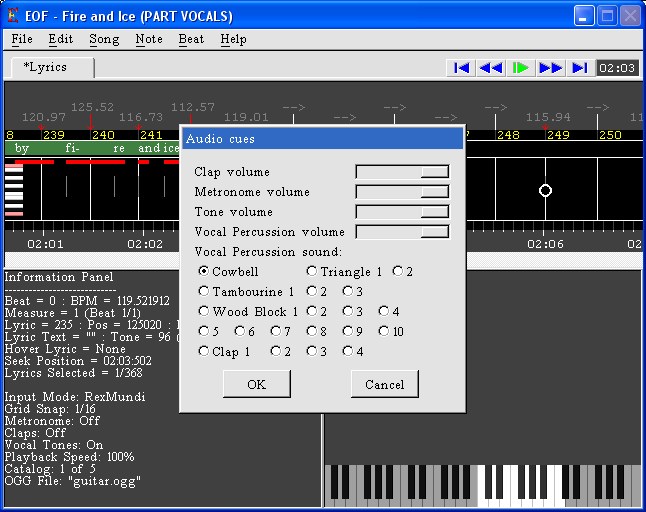
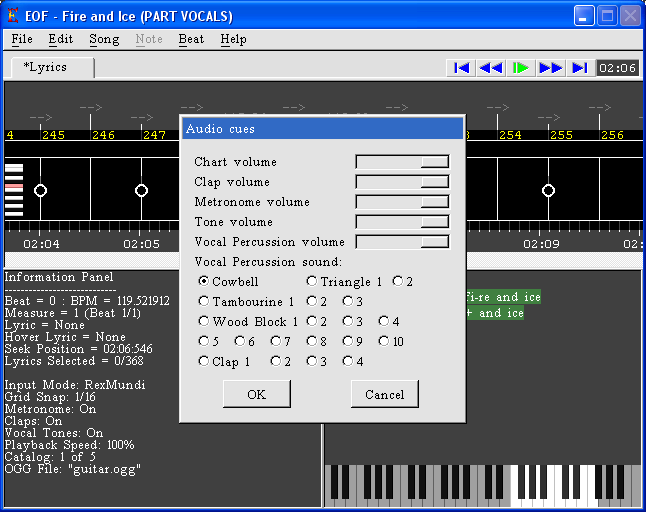
Adds a chart volume slider and updates the documentation.

diff --git a/bin/manual/functions.htm b/bin/manual/functions.htm
@@ -124,7 +124,7 @@ EOF stores all these settings in the ".eof" project file and exports them to "so
 <h1><a name="testinfof">Test In FOF</a></h1>
 Launch FOF with the current song, track, and difficulty for testing. This feature only works if you are using an RF-based mod (ie. Alarian Mod or FoFiX) and have correctly linked EOF to it (see <a href=functions.htm#linktofof>File->Link to FOF</a>).  As of this release, it has been confirmed through testing and documentation that "Test in FoF" should work for Frets on Fire releases from MFH Alarian Mod 2.900 through FoFiX 3.100.<br>
 <h1><a name="audiocues">Audio cues</a></h1>
-Opens a dialog window allowing you to change the volume for any of EOF's audio cues:  Clap, metronome, vocal tone and vocal percussion.  This will affect the volume of the cue when it is sounded during playback or when the chart is stopped (such as when clicking on a lyric or vocal percussion note).  This dialog window also allows you to select the sound that will be used for a vocal percussion note.  See <a href="../vocaltutorial/index.htm#percussion">Percussion sections</a> in the vocal tutorial for details.<br>
+Opens a dialog window allowing you to change the volume for the chart audio and any of EOF's audio cues:  Clap, metronome, vocal tone and vocal percussion.  This will affect the volume of the cue when it is sounded during playback or when the chart is stopped (such as when clicking on a lyric or vocal percussion note).  This dialog window also allows you to select the sound that will be used for a vocal percussion note.  See <a href="../vocaltutorial/index.htm#percussion">Percussion sections</a> in the vocal tutorial for details.<br>
 <h1><a name="waveform">Waveform graph</a></h1>
 Provides the ability to show, hide and configure a waveform graph for the currently active OGG file.  To generate the graph, use the "Show" item in this menu or simply press the F5 key.  After a few seconds, the graph will be displayed as per the settings in the "Configure" dialog menu.  In the "Configure" menu item, you can specify whether the left audio channel, the right audio channel or both audio channels will be graphed.  You can also specify whether the graph will be scaled to fit within the fretboard area or the entire editor window (the area above the scroll bar and the below the playback control buttons).  Once the waveform graph has been initially generated, you can show/hide it with the F5 key, even during chart playback.  If you load another OGG file (see <a href="functions.htm#loadogg">File->Load OGG</a>), the waveform graph will not be recreated until it is hidden and shown again.  This will allow you to generate a graph for a drum track, for example, then load another audio file.  If you load or import a chart, any existing waveform graph will be discarded and will need to be created again by showing the graph.
 </blockquote>

diff --git a/src/menu/song.c b/src/menu/song.c
@@ -1,4 +1,5 @@
 #include <allegro.h>
+#include <math.h>	//For sqrt()
 #include "../agup/agup.h"
 #include "../main.h"
 #include "../dialog.h"
@@ -1391,50 +1392,56 @@ int eof_menu_song_waveform(void)
 	return 0;	//Return success
 }
 
+int eof_cue_volume_1 = 100;
 DIALOG eof_audio_cues_dialog[] =
 {
 /*	(proc)					(x)	(y)				(w)	(h)		(fg)	(bg)	(key)	(flags)	(d1)	(d2)	(dp)						(dp2)	(dp3) */
-	{ d_agup_window_proc,	0,	48,				288,290,	2,		23,		0,		0,		0,		0,		"Audio cues",				NULL,	NULL },
-	{ d_agup_text_proc,		16,	88,				64,	8,		2,		23,		0,		0,		0,		0,		"Clap volume",				NULL,	NULL },
+	{ d_agup_window_proc,	0,	48,				288,310,	2,		23,		0,		0,		0,		0,		"Audio cues",				NULL,	NULL },
+	{ d_agup_text_proc,		16,	88,				64,	8,		2,		23,		0,		0,		0,		0,		"Chart volume",				NULL,	NULL },
 	{ d_agup_slider_proc,	176,88,				96,	16,		2,		23,		0,		0,		100,	0,		NULL,						NULL,	NULL },
-	{ d_agup_text_proc,		16, 108,			64,	8,		2,		23,		0,		0,		0,		0,		"Metronome volume",			NULL,	NULL },
+	{ d_agup_text_proc,		16,	108,			64,	8,		2,		23,		0,		0,		0,		0,		"Clap volume",				eof_set_cue_volume,	&eof_cue_volume_1 },
 	{ d_agup_slider_proc,	176,108,			96,	16,		2,		23,		0,		0,		100,	0,		NULL,						NULL,	NULL },
-	{ d_agup_text_proc,		16, 128,			64,	8,		2,		23,		0,		0,		0,		0,		"Tone volume",				NULL,	NULL },
+	{ d_agup_text_proc,		16, 128,			64,	8,		2,		23,		0,		0,		0,		0,		"Metronome volume",			NULL,	NULL },
 	{ d_agup_slider_proc,	176,128,			96,	16,		2,		23,		0,		0,		100,	0,		NULL,						NULL,	NULL },
-	{ d_agup_text_proc,		16, 148,			64,	8,		2,		23,		0,		0,		0,		0,		"Vocal Percussion volume",	NULL,	NULL },
+	{ d_agup_text_proc,		16, 148,			64,	8,		2,		23,		0,		0,		0,		0,		"Tone volume",				NULL,	NULL },
 	{ d_agup_slider_proc,	176,148,			96,	16,		2,		23,		0,		0,		100,	0,		NULL,						NULL,	NULL },
-	{ d_agup_text_proc,		16, 168,			64,	8,		2,		23,		0,		0,		0,		0,		"Vocal Percussion sound:",	NULL,	NULL },
-	{ d_agup_radio_proc,	16,188,				68,	15,		2,		23,		0,		0,		0,		0,		"Cowbell",					NULL,	NULL },
-	{ d_agup_radio_proc,	124,188,			84,	15,		2,		23,		0,		0,		0,		0,		"Triangle 1",				NULL,	NULL },
-	{ d_agup_radio_proc,	210,188,			30,	15,		2,		23,		0,		0,		0,		0,		"2",						NULL,	NULL },
-	{ d_agup_radio_proc,	16,208,				102,15,		2,		23,		0,		0,		0,		0,		"Tambourine 1",				NULL,	NULL },
-	{ d_agup_radio_proc,	124,208,			30,	15,		2,		23,		0,		0,		0,		0,		"2",						NULL,	NULL },
-	{ d_agup_radio_proc,	160,208,			30,	15,		2,		23,		0,		0,		0,		0,		"3",						NULL,	NULL },
-	{ d_agup_radio_proc,	16,228,				110,15,		2,		23,		0,		0,		0,		0,		"Wood Block 1",				NULL,	NULL },
+	{ d_agup_text_proc,		16, 168,			64,	8,		2,		23,		0,		0,		0,		0,		"Vocal Percussion volume",	NULL,	NULL },
+	{ d_agup_slider_proc,	176,168,			96,	16,		2,		23,		0,		0,		100,	0,		NULL,						NULL,	NULL },
+	{ d_agup_text_proc,		16, 188,			64,	8,		2,		23,		0,		0,		0,		0,		"Vocal Percussion sound:",	NULL,	NULL },
+	{ d_agup_radio_proc,	16,208,				68,	15,		2,		23,		0,		0,		0,		0,		"Cowbell",					NULL,	NULL },
+	{ d_agup_radio_proc,	124,208,			84,	15,		2,		23,		0,		0,		0,		0,		"Triangle 1",				NULL,	NULL },
+	{ d_agup_radio_proc,	210,208,			30,	15,		2,		23,		0,		0,		0,		0,		"2",						NULL,	NULL },
+	{ d_agup_radio_proc,	16,228,				102,15,		2,		23,		0,		0,		0,		0,		"Tambourine 1",				NULL,	NULL },
 	{ d_agup_radio_proc,	124,228,			30,	15,		2,		23,		0,		0,		0,		0,		"2",						NULL,	NULL },
 	{ d_agup_radio_proc,	160,228,			30,	15,		2,		23,		0,		0,		0,		0,		"3",						NULL,	NULL },
-	{ d_agup_radio_proc,	196,228,			30,	15,		2,		23,		0,		0,		0,		0,		"4",						NULL,	NULL },
-	{ d_agup_radio_proc,	16,248,				30,	15,		2,		23,		0,		0,		0,		0,		"5",						NULL,	NULL },
-	{ d_agup_radio_proc,	52,248,				30,	15,		2,		23,		0,		0,		0,		0,		"6",						NULL,	NULL },
-	{ d_agup_radio_proc,	88,248,				30,	15,		2,		23,		0,		0,		0,		0,		"7",						NULL,	NULL },
-	{ d_agup_radio_proc,	124,248,			30,	15,		2,		23,		0,		0,		0,		0,		"8",						NULL,	NULL },
-	{ d_agup_radio_proc,	160,248,			30,	15,		2,		23,		0,		0,		0,		0,		"9",						NULL,	NULL },
-	{ d_agup_radio_proc,	196,248,			40,	15,		2,		23,		0,		0,		0,		0,		"10",						NULL,	NULL },
-	{ d_agup_radio_proc,	16,268,				68,15,		2,		23,		0,		0,		0,		0,		"Clap 1",					NULL,	NULL },
-	{ d_agup_radio_proc,	88,268,				30,15,		2,		23,		0,		0,		0,		0,		"2",						NULL,	NULL },
-	{ d_agup_radio_proc,	124,268,			30,15,		2,		23,		0,		0,		0,		0,		"3",						NULL,	NULL },
-	{ d_agup_radio_proc,	160,268,			30,15,		2,		23,		0,		0,		0,		0,		"4",						NULL,	NULL },
-	{ d_agup_button_proc,	44,294,				68,	28,		2,		23,		'\r',	D_EXIT,	0,		0,		"OK",						NULL,	NULL },
-	{ d_agup_button_proc,	172,294,			68,	28,		2,		23,		0,		D_EXIT,	0,		0,		"Cancel",					NULL,	NULL },
+	{ d_agup_radio_proc,	16,248,				110,15,		2,		23,		0,		0,		0,		0,		"Wood Block 1",				NULL,	NULL },
+	{ d_agup_radio_proc,	124,248,			30,	15,		2,		23,		0,		0,		0,		0,		"2",						NULL,	NULL },
+	{ d_agup_radio_proc,	160,248,			30,	15,		2,		23,		0,		0,		0,		0,		"3",						NULL,	NULL },
+	{ d_agup_radio_proc,	196,248,			30,	15,		2,		23,		0,		0,		0,		0,		"4",						NULL,	NULL },
+	{ d_agup_radio_proc,	16,268,				30,	15,		2,		23,		0,		0,		0,		0,		"5",						NULL,	NULL },
+	{ d_agup_radio_proc,	52,268,				30,	15,		2,		23,		0,		0,		0,		0,		"6",						NULL,	NULL },
+	{ d_agup_radio_proc,	88,268,				30,	15,		2,		23,		0,		0,		0,		0,		"7",						NULL,	NULL },
+	{ d_agup_radio_proc,	124,268,			30,	15,		2,		23,		0,		0,		0,		0,		"8",						NULL,	NULL },
+	{ d_agup_radio_proc,	160,268,			30,	15,		2,		23,		0,		0,		0,		0,		"9",						NULL,	NULL },
+	{ d_agup_radio_proc,	196,268,			40,	15,		2,		23,		0,		0,		0,		0,		"10",						NULL,	NULL },
+	{ d_agup_radio_proc,	16,288,				68,15,		2,		23,		0,		0,		0,		0,		"Clap 1",					NULL,	NULL },
+	{ d_agup_radio_proc,	88,288,				30,15,		2,		23,		0,		0,		0,		0,		"2",						NULL,	NULL },
+	{ d_agup_radio_proc,	124,288,			30,15,		2,		23,		0,		0,		0,		0,		"3",						NULL,	NULL },
+	{ d_agup_radio_proc,	160,288,			30,15,		2,		23,		0,		0,		0,		0,		"4",						NULL,	NULL },
+	{ d_agup_button_proc,	44,314,				68,	28,		2,		23,		'\r',	D_EXIT,	0,		0,		"OK",						NULL,	NULL },
+	{ d_agup_button_proc,	172,314,			68,	28,		2,		23,		0,		D_EXIT,	0,		0,		"Cancel",					NULL,	NULL },
 	{ NULL,					0,	0,				0,	0,		0,		0,		0,		0,		0,		0,		NULL,						NULL,	NULL }
 };
 
 int eof_set_cue_volume(void *dp3, int d2)
 {
 	//Validate input
+	if(dp3 == NULL)
+		return 1;
 	if((d2 < 0) || (d2 > 100))
 		return 1;
 
+	*((int *)dp3) = d2;	//Store the adjusted volume into the passed variable
 	return 0;
 }
 
@@ -1447,123 +1454,126 @@ int eof_menu_audio_cues(void)
 	eof_render();
 	eof_color_dialog(eof_audio_cues_dialog, gui_fg_color, gui_bg_color);
 	centre_dialog(eof_audio_cues_dialog);
-	eof_audio_cues_dialog[2].d2 = eof_clap_volume;
-	eof_audio_cues_dialog[4].d2 = eof_tick_volume;
-	eof_audio_cues_dialog[6].d2 = eof_tone_volume;
-	eof_audio_cues_dialog[8].d2 = eof_percussion_volume;
+	eof_audio_cues_dialog[2].d2 = eof_chart_volume;
+	eof_audio_cues_dialog[4].d2 = eof_clap_volume;
+	eof_audio_cues_dialog[6].d2 = eof_tick_volume;
+	eof_audio_cues_dialog[8].d2 = eof_tone_volume;
+	eof_audio_cues_dialog[10].d2 = eof_percussion_volume;
 
-	for(x=10;x<=29;x++)
+	for(x=12;x<=31;x++)
 	{	//Deselect all vocal percussion radio buttons
 		eof_audio_cues_dialog[x].flags = 0;
 	}
 	eof_audio_cues_dialog[eof_selected_percussion_cue].flags = D_SELECTED;	//Activate the radio button for the current vocal percussion cue
 
-	if(eof_popup_dialog(eof_audio_cues_dialog, 0) == 30)		//User clicked OK
+	if(eof_popup_dialog(eof_audio_cues_dialog, 0) == 32)		//User clicked OK
 	{
-		eof_clap_volume = eof_audio_cues_dialog[2].d2;			//Store the volume set by the clap cue volume slider
-		eof_tick_volume = eof_audio_cues_dialog[4].d2;			//Store the volume set by the tick cue volume slider
-		eof_tone_volume = eof_audio_cues_dialog[6].d2;			//Store the volume set by the tone cue volume slider
-		eof_percussion_volume = eof_audio_cues_dialog[8].d2;	//Store the volume set by the vocal percussion cue volume slider
+		eof_chart_volume = eof_audio_cues_dialog[2].d2;				//Store the volume set by the chart volume slider
+		eof_chart_volume_multiplier = sqrt(eof_chart_volume/100.0);	//Store this math so it only needs to be performed once
+		eof_clap_volume = eof_audio_cues_dialog[4].d2;				//Store the volume set by the clap cue volume slider
+		eof_tick_volume = eof_audio_cues_dialog[6].d2;				//Store the volume set by the tick cue volume slider
+		eof_tone_volume = eof_audio_cues_dialog[8].d2;				//Store the volume set by the tone cue volume slider
+		eof_percussion_volume = eof_audio_cues_dialog[10].d2;		//Store the volume set by the vocal percussion cue volume slider
 
-		if(eof_audio_cues_dialog[10].flags == D_SELECTED)		//User selected cowbell
+		if(eof_audio_cues_dialog[12].flags == D_SELECTED)		//User selected cowbell
 		{
 			eof_sound_chosen_percussion = eof_sound_cowbell;
-			eof_selected_percussion_cue = 10;
-		}
-		else if(eof_audio_cues_dialog[11].flags == D_SELECTED)	//User selected triangle 1
-		{
-			eof_sound_chosen_percussion = eof_sound_triangle1;
-			eof_selected_percussion_cue = 11;
-		}
-		else if(eof_audio_cues_dialog[12].flags == D_SELECTED)	//User selected triangle 2
-		{
-			eof_sound_chosen_percussion = eof_sound_triangle2;
 			eof_selected_percussion_cue = 12;
 		}
-		else if(eof_audio_cues_dialog[13].flags == D_SELECTED)	//User selected tambourine 1
+		else if(eof_audio_cues_dialog[13].flags == D_SELECTED)	//User selected triangle 1
 		{
-			eof_sound_chosen_percussion = eof_sound_tambourine1;
+			eof_sound_chosen_percussion = eof_sound_triangle1;
 			eof_selected_percussion_cue = 13;
 		}
-		else if(eof_audio_cues_dialog[14].flags == D_SELECTED)	//User selected tambourine 2
+		else if(eof_audio_cues_dialog[14].flags == D_SELECTED)	//User selected triangle 2
 		{
-			eof_sound_chosen_percussion = eof_sound_tambourine2;
+			eof_sound_chosen_percussion = eof_sound_triangle2;
 			eof_selected_percussion_cue = 14;
 		}
-		else if(eof_audio_cues_dialog[15].flags == D_SELECTED)	//User selected tambourine 3
+		else if(eof_audio_cues_dialog[15].flags == D_SELECTED)	//User selected tambourine 1
 		{
-			eof_sound_chosen_percussion = eof_sound_tambourine3;
+			eof_sound_chosen_percussion = eof_sound_tambourine1;
 			eof_selected_percussion_cue = 15;
 		}
-		else if(eof_audio_cues_dialog[16].flags == D_SELECTED)	//User selected wood block 1
+		else if(eof_audio_cues_dialog[16].flags == D_SELECTED)	//User selected tambourine 2
 		{
-			eof_sound_chosen_percussion = eof_sound_woodblock1;
+			eof_sound_chosen_percussion = eof_sound_tambourine2;
 			eof_selected_percussion_cue = 16;
 		}
-		else if(eof_audio_cues_dialog[17].flags == D_SELECTED)	//User selected wood block 2
+		else if(eof_audio_cues_dialog[17].flags == D_SELECTED)	//User selected tambourine 3
 		{
-			eof_sound_chosen_percussion = eof_sound_woodblock2;
+			eof_sound_chosen_percussion = eof_sound_tambourine3;
 			eof_selected_percussion_cue = 17;
 		}
-		else if(eof_audio_cues_dialog[18].flags == D_SELECTED)	//User selected wood block 3
+		else if(eof_audio_cues_dialog[18].flags == D_SELECTED)	//User selected wood block 1
 		{
-			eof_sound_chosen_percussion = eof_sound_woodblock3;
+			eof_sound_chosen_percussion = eof_sound_woodblock1;
 			eof_selected_percussion_cue = 18;
 		}
-		else if(eof_audio_cues_dialog[19].flags == D_SELECTED)	//User selected wood block 4
+		else if(eof_audio_cues_dialog[19].flags == D_SELECTED)	//User selected wood block 2
 		{
-			eof_sound_chosen_percussion = eof_sound_woodblock4;
+			eof_sound_chosen_percussion = eof_sound_woodblock2;
 			eof_selected_percussion_cue = 19;
 		}
-		else if(eof_audio_cues_dialog[20].flags == D_SELECTED)	//User selected wood block 5
+		else if(eof_audio_cues_dialog[20].flags == D_SELECTED)	//User selected wood block 3
 		{
-			eof_sound_chosen_percussion = eof_sound_woodblock5;
+			eof_sound_chosen_percussion = eof_sound_woodblock3;
 			eof_selected_percussion_cue = 20;
 		}
-		else if(eof_audio_cues_dialog[21].flags == D_SELECTED)	//User selected wood block 6
+		else if(eof_audio_cues_dialog[21].flags == D_SELECTED)	//User selected wood block 4
 		{
-			eof_sound_chosen_percussion = eof_sound_woodblock6;
+			eof_sound_chosen_percussion = eof_sound_woodblock4;
 			eof_selected_percussion_cue = 21;
 		}
-		else if(eof_audio_cues_dialog[22].flags == D_SELECTED)	//User selected wood block 7
+		else if(eof_audio_cues_dialog[22].flags == D_SELECTED)	//User selected wood block 5
 		{
-			eof_sound_chosen_percussion = eof_sound_woodblock7;
+			eof_sound_chosen_percussion = eof_sound_woodblock5;
 			eof_selected_percussion_cue = 22;
 		}
-		else if(eof_audio_cues_dialog[23].flags == D_SELECTED)	//User selected wood block 8
+		else if(eof_audio_cues_dialog[23].flags == D_SELECTED)	//User selected wood block 6
 		{
-			eof_sound_chosen_percussion = eof_sound_woodblock8;
+			eof_sound_chosen_percussion = eof_sound_woodblock6;
 			eof_selected_percussion_cue = 23;
 		}
-		else if(eof_audio_cues_dialog[24].flags == D_SELECTED)	//User selected wood block 9
+		else if(eof_audio_cues_dialog[24].flags == D_SELECTED)	//User selected wood block 7
 		{
-			eof_sound_chosen_percussion = eof_sound_woodblock9;
+			eof_sound_chosen_percussion = eof_sound_woodblock7;
 			eof_selected_percussion_cue = 24;
 		}
-		else if(eof_audio_cues_dialog[25].flags == D_SELECTED)	//User selected wood block 10
+		else if(eof_audio_cues_dialog[25].flags == D_SELECTED)	//User selected wood block 8
 		{
-			eof_sound_chosen_percussion = eof_sound_woodblock10;
+			eof_sound_chosen_percussion = eof_sound_woodblock8;
 			eof_selected_percussion_cue = 25;
 		}
-		else if(eof_audio_cues_dialog[26].flags == D_SELECTED)	//User selected clap 1
+		else if(eof_audio_cues_dialog[26].flags == D_SELECTED)	//User selected wood block 9
 		{
-			eof_sound_chosen_percussion = eof_sound_clap1;
+			eof_sound_chosen_percussion = eof_sound_woodblock9;
 			eof_selected_percussion_cue = 26;
 		}
-		else if(eof_audio_cues_dialog[27].flags == D_SELECTED)	//User selected clap 2
+		else if(eof_audio_cues_dialog[27].flags == D_SELECTED)	//User selected wood block 10
 		{
-			eof_sound_chosen_percussion = eof_sound_clap2;
+			eof_sound_chosen_percussion = eof_sound_woodblock10;
 			eof_selected_percussion_cue = 27;
 		}
-		else if(eof_audio_cues_dialog[28].flags == D_SELECTED)	//User selected clap 3
+		else if(eof_audio_cues_dialog[28].flags == D_SELECTED)	//User selected clap 1
 		{
-			eof_sound_chosen_percussion = eof_sound_clap3;
+			eof_sound_chosen_percussion = eof_sound_clap1;
 			eof_selected_percussion_cue = 28;
 		}
-		else if(eof_audio_cues_dialog[29].flags == D_SELECTED)	//User selected clap 4
+		else if(eof_audio_cues_dialog[29].flags == D_SELECTED)	//User selected clap 2
+		{
+			eof_sound_chosen_percussion = eof_sound_clap2;
+			eof_selected_percussion_cue = 29;
+		}
+		else if(eof_audio_cues_dialog[30].flags == D_SELECTED)	//User selected clap 3
+		{
+			eof_sound_chosen_percussion = eof_sound_clap3;
+			eof_selected_percussion_cue = 30;
+		}
+		else if(eof_audio_cues_dialog[31].flags == D_SELECTED)	//User selected clap 4
 		{
 			eof_sound_chosen_percussion = eof_sound_clap4;
-			eof_selected_percussion_cue = 29;
+			eof_selected_percussion_cue = 31;
 		}
 	}
 	eof_show_mouse(NULL);

diff --git a/src/mix.h b/src/mix.h
@@ -24,10 +24,12 @@ extern char eof_mix_vocal_tones_enabled;
 extern char eof_mix_midi_tones_enabled;	//Tracks whether MIDI tones are enabled
 extern char eof_mix_percussion_enabled;	//Tracks whether vocal percussion cues are enabled
 extern EOF_MIX_VOICE eof_voice[EOF_MIX_MAX_CHANNELS];
-extern int eof_clap_volume;			//Stores the volume level for the clap, specified as a percentage
-extern int eof_tick_volume;			//Stores the volume level for the tick cue, specified as a percentage
-extern int eof_tone_volume;			//Stores the volume level for the tone cue, specified as a percentage
-extern int eof_percussion_volume;	//Stores the volume level for the vocal percussion cue, specified as a percentage
+extern int eof_chart_volume;				//Stores the volume level for the chart audio, specified as a percentage
+extern double eof_chart_volume_multiplier;	//This is the value sqrt(volume/100.0), which must be multiplied to the voice's amplitude to adjust for the specified volume
+extern int eof_clap_volume;					//Stores the volume level for the clap, specified as a percentage
+extern int eof_tick_volume;					//Stores the volume level for the tick cue, specified as a percentage
+extern int eof_tone_volume;					//Stores the volume level for the tone cue, specified as a percentage
+extern int eof_percussion_volume;			//Stores the volume level for the vocal percussion cue, specified as a percentage
 extern int eof_selected_percussion_cue;		//The user selected percussion sound (cowbell by default), corresponds to the radio button in the eof_audio_cues_dialog[] array
 extern SAMPLE *eof_sound_chosen_percussion;	//The user-selected percussion sound
 extern SAMPLE *eof_sound_cowbell;

diff --git a/src/mix.c b/src/mix.c
@@ -41,6 +41,8 @@ char eof_mix_midi_tones_enabled = 0;
 char eof_mix_percussion_enabled = 0;
 int eof_selected_percussion_cue = 10;	//The user selected percussion sound (cowbell by default), corresponds to the radio button in the eof_audio_cues_dialog[] array
 
+int eof_chart_volume = 100;	//Stores the volume level for the chart audio, specified as a percentage
+double eof_chart_volume_multiplier = 1.0;	//This is the value sqrt(volume/100.0), which must be multiplied to the voice's amplitude to adjust for the specified volume
 int eof_clap_volume = 100;	//Stores the volume level for the clap cue, specified as a percentage
 int eof_tick_volume = 100;	//Stores the volume level for the tick cue, specified as a percentage
 int eof_tone_volume = 100;	//Stores the volume level for the tone cue, specified as a percentage
@@ -84,6 +86,19 @@ void eof_mix_callback(void * buf, int length)
 	/* add audio data to the buffer */
 	for(i = 0; i < bytes_left; i += increment)
 	{
+		if(eof_chart_volume != 100)		//If the chart volume is to be less than 100%
+		{
+			sum = buffer[i] - 32768;	//Convert to signed sample
+			sum *= eof_chart_volume_multiplier;
+			buffer[i] = sum + 32768;	//Convert back to unsigned sample
+
+			if(increment > 1)
+			{	//If this is a stereo audio file, apply the volume to the other channel as well
+				sum = buffer[i] - 32768;		//Convert to signed sample
+				sum *= eof_chart_volume_multiplier;
+				buffer[i + 1] = sum + 32768;	//Convert back to unsigned sample
+			}
+		}
 
 		/* mix voices */
 		for(j = 0; j < EOF_MIX_MAX_CHANNELS; j++)
